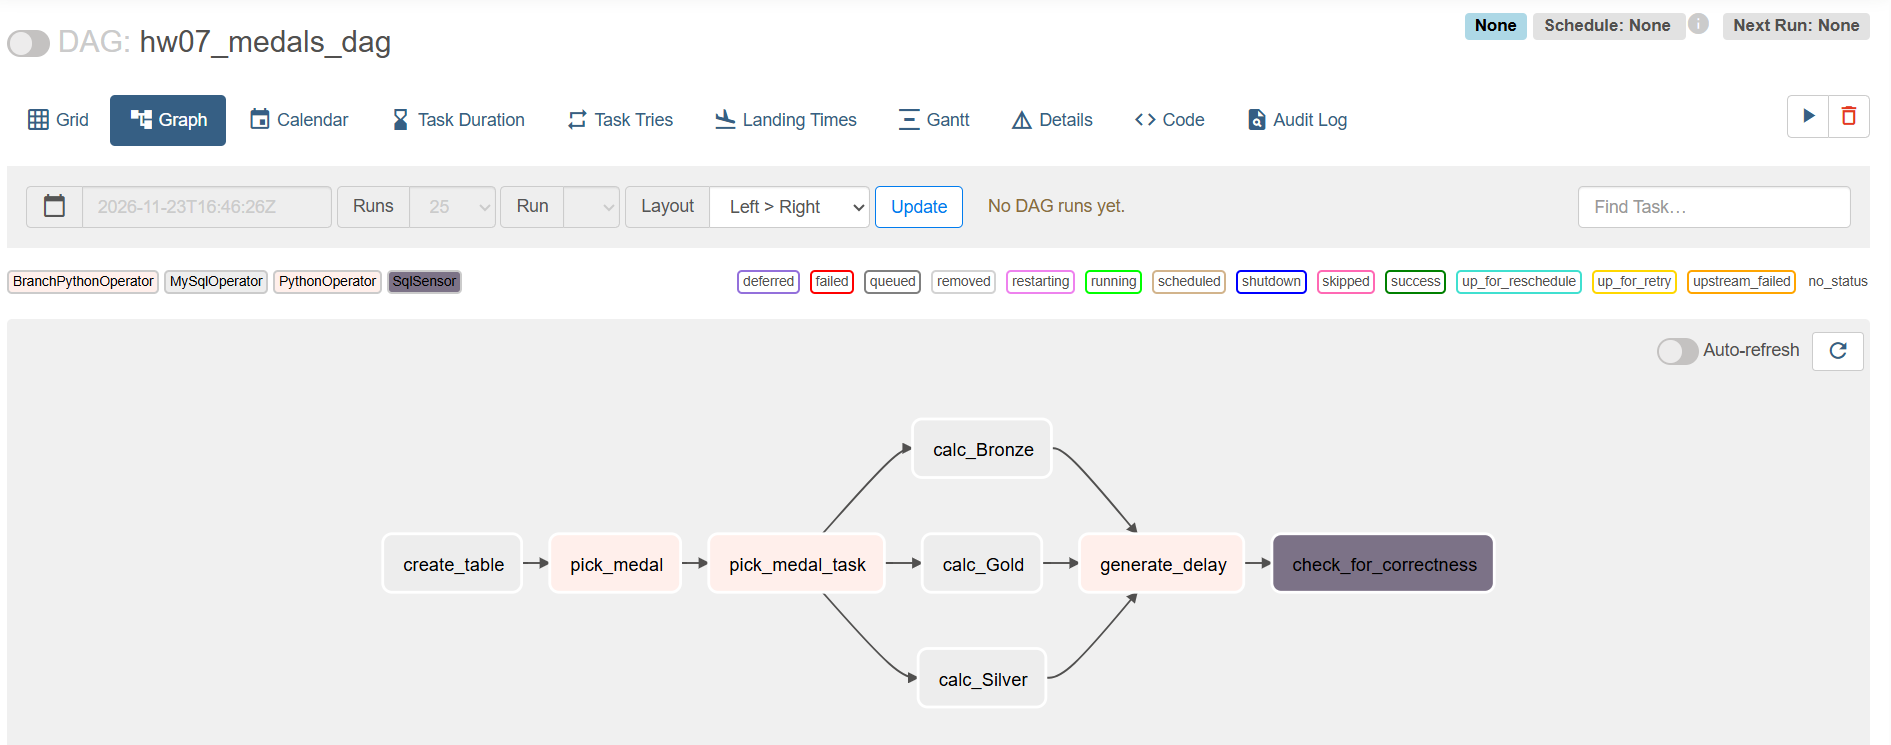
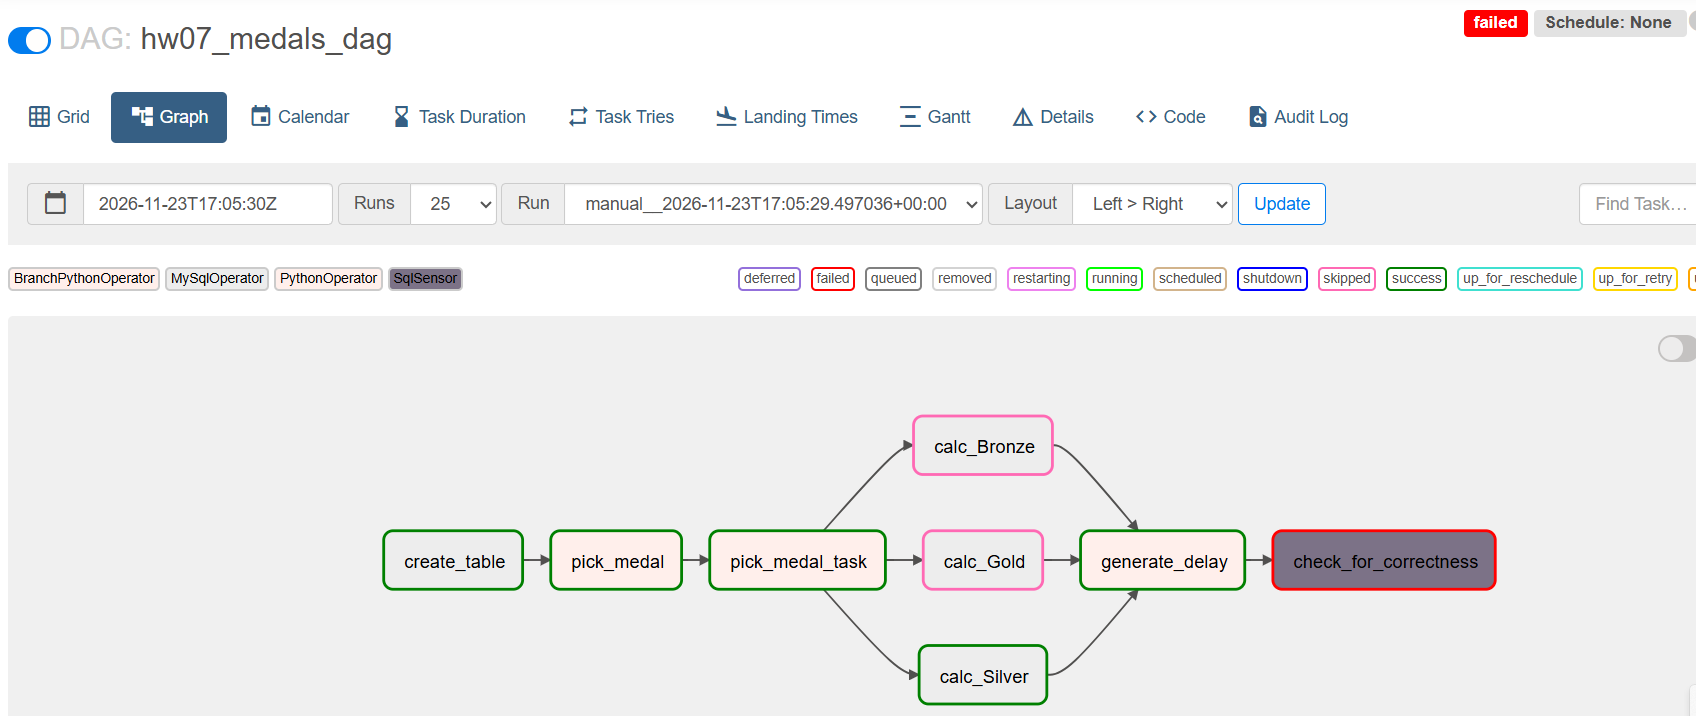
Update Graph screenshot with task statuses

diff --git a/README.md b/README.md
@@ -77,7 +77,9 @@ create_table >> pick_medal >> pick_medal_task >> [calc_Bronze, calc_Silver, calc
 ### Grid: успішний запуск і запуск із затримкою 35 секунд
 ![Failed sensor](screenshots/tasks_35_seconds_failed.png)
 
-### Graph
+### Graph (запуск із `DELAY_SECONDS = 35`)
+Обрано `Silver`, гілки `calc_Bronze` і `calc_Gold` пропущені (`skipped`), сенсор `check_for_correctness` впав, бо запис старший за 30 секунд.
+
 ![Graph](screenshots/graph.png)
 
 ### Grid (статуси задач)
